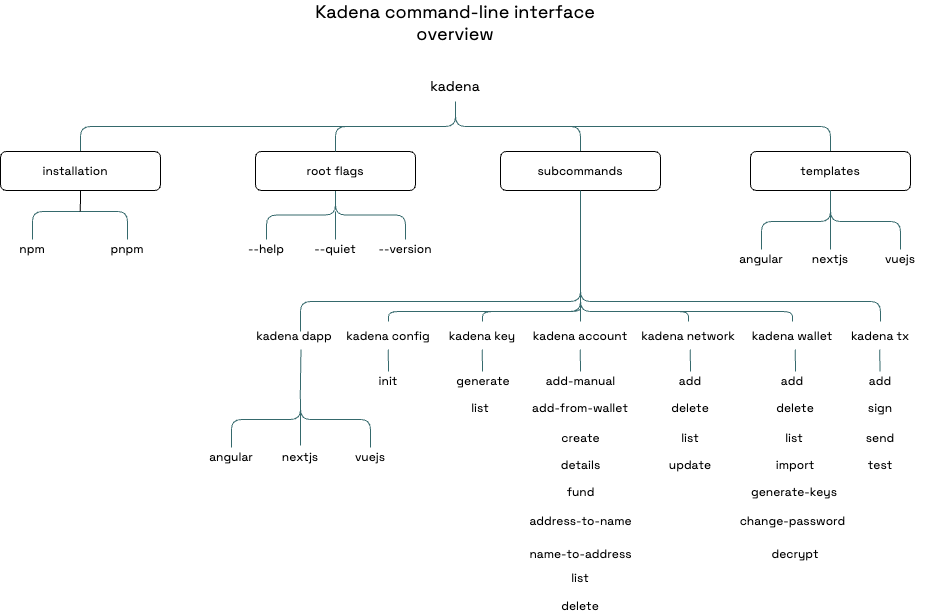
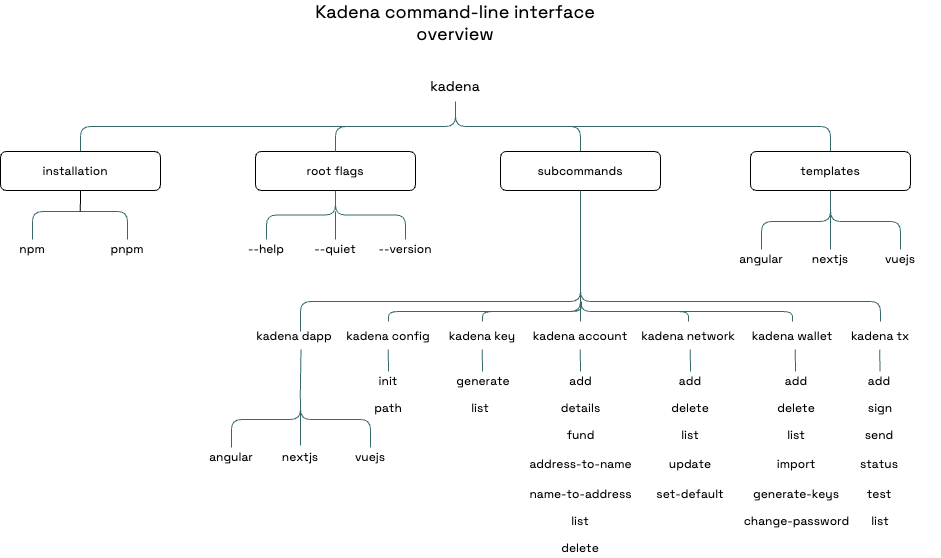
Update cli overview graphic (#2171)
* Update cli overview graphic

* Add changeset to CLI graphic PR

diff --git a/.changeset/breezy-mails-bathe.md b/.changeset/breezy-mails-bathe.md
@@ -1,0 +1,2 @@
+---
+---
